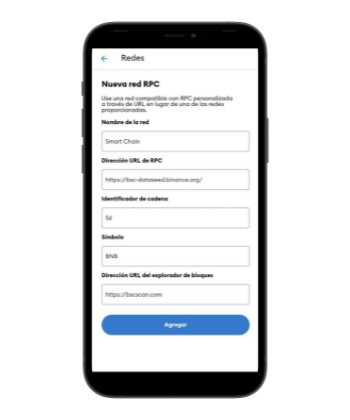
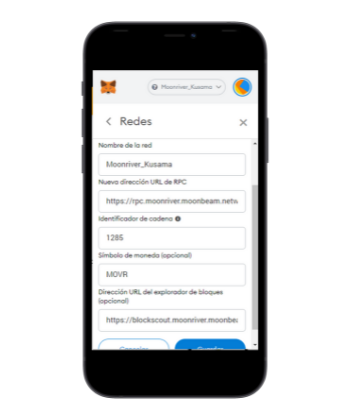
act test 16-11-21_12:08

Changed region(s): [[0.2571, 0.0929, 0.7429, 0.8976]]

diff --git a/src/app/components/inicio/inicio.component.html b/src/app/components/inicio/inicio.component.html
@@ -507,7 +507,7 @@
         </div>
       </mat-tab>
 
-      <mat-tab label="2. {{ 'Agregate a la red BSC' | translate }}">
+      <mat-tab label="2. {{ 'Agregate a la red MOVR' | translate }}">
         <div class="instructions-section">
           <div class="instruction-collection">
             <div class="instruction-card">
@@ -635,7 +635,7 @@
               </div>
 
               <div class="instruction-card-title">
-                <h2>{{ "Red bsc cargada" | translate }}</h2>
+                <h2>{{ "Red MOVR cargada" | translate }}</h2>
                 <p>
                   {{
                     "Listo ahora puedes agregar el contacto inteligente de Inticoin en el paso 3."
@@ -1013,6 +1013,13 @@
                 <p>
                   {{
                     "Desarrollo y pruebas de las NFT de registro animal."
+                      | translate
+                  }}
+                </p>
+                <hr />
+                <p>
+                  {{
+                    "Nos mudamos a Moonriver."
                       | translate
                   }}
                 </p>
